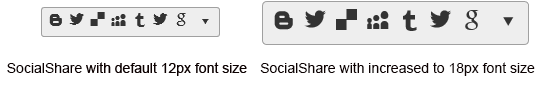
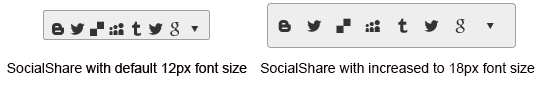
fixed social share elasticity info

Changed region(s): [[0.4578, 0.0, 0.9461, 0.5053], [0.061, 0.0632, 0.3968, 0.4211]]

diff --git a/controls/socialshare/mobile-support/elastic-design.md b/controls/socialshare/mobile-support/elastic-design.md
@@ -11,7 +11,7 @@ position: 2
 # Elastic Design
 
 
-This article explains the **elastic design capabilities RadSocialShare offers**. The [Lightweight RenderMode]({%slug splitter/mobile-support/render-modes%}) of RadSocialShare supports **elastic design as of Q3 2015** (**Figure 1**). The Classic RenderMode offers more limited abilities (**Figure 2**). RadSocialShare also provides [Fluid Design]({%slug socialshare/mobile-support/fluid-design%}).
+This article explains the **elastic design capabilities RadSocialShare offers**. The [Lightweight RenderMode]({%slug splitter/mobile-support/render-modes%}) of RadSocialShare supports **elastic design as of Q3 2015** (**Figure 1**). RadSocialShare also provides [Fluid Design]({%slug socialshare/mobile-support/fluid-design%}).
 
 @[template](/_templates/common/render-mode.md#resp-design-desc "slug-el: no, slug-fl: socialshare/mobile-support/fluid-design")
 
@@ -21,9 +21,17 @@ This article explains the **elastic design capabilities RadSocialShare offers**.
 
 ![socialshare-elastic-design-lw](images/socialshare-elastic-design-lw.png)
 
->caption Figure 2: Comparison between the appearance of a RadSocialShare with regular font size and with increased font size when `RenderMode=Classic`. See the code in **Example 4**.
+>caption Figure 2: RadSocialShare with Elastic design when font-icons also change size
 
-![socialshare-changed-font-size-comparison](images/socialshare-changed-font-size-comparison.png)
+![socialshare-elastic-design-lw](images/socialshare-elastic-design-lw-with-icons.png)
+
+>tip To also change the [font-icons size]({%slug introduction/radcontrols-for-asp.net-ajax-fundamentals/controlling-visual-appearance/fonts%}#font-icon-size) to get **Figure 2**, you can use a rule like this:
+>    ```
+>    span.sshIcon::before
+>   {
+>    	font-size: inherit;
+>   }
+>    ```
 
 
 **RadSocialShare** does not create elastic design by itself, but can fit in a page that follows this pattern. This means that its **Lightweight RenderMode** supports **changing the font size** without breaking the control's appearance - if the new size is larger than the original, the elements in the control will simply increase their size as well to accommodate the text. This fluid layout is achieved by using `em` units for setting dimensions and paddings in the control, instead of `px`because `em` units are tied to the font size. This allows dimensions and sizes to scale with the font size.
